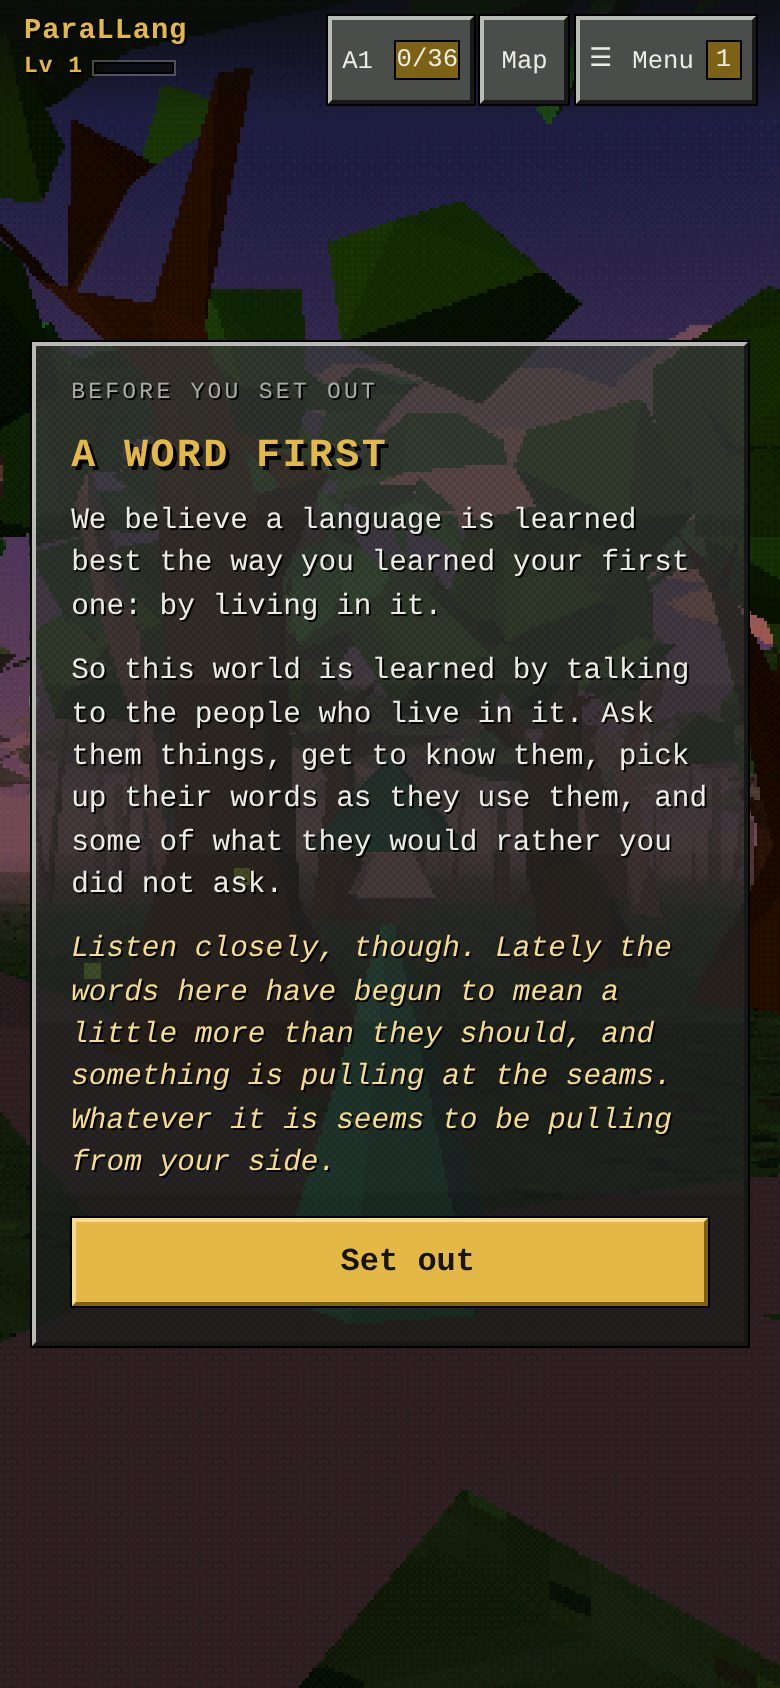
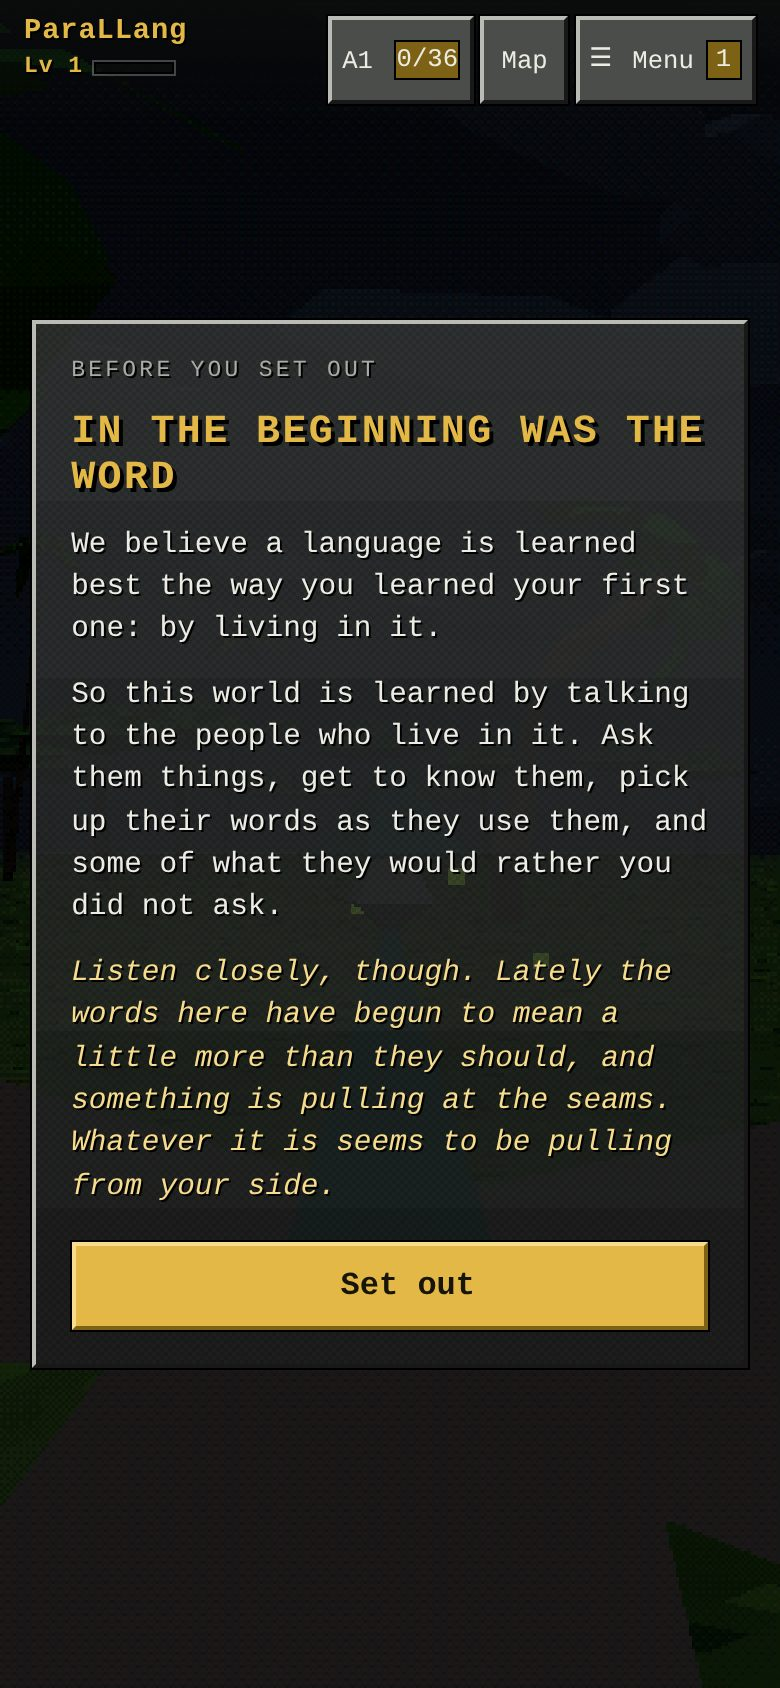
round 180: the opening message's heading is "In the beginning was the Word"
Claude-Session: https://claude.ai/code/session_011e19kMGFw1rCHyDXwkJLSU

diff --git a/client/src/components/__tests__/road-screen.test.jsx b/client/src/components/__tests__/road-screen.test.jsx
@@ -26,7 +26,7 @@ const noMusic = { supported: false, start() {}, stop() {}, setLevel() {} };
 
 // Round 180: the opening message, once the camera is down at the start of the journey; closed by Set out.
 async function welcome(user) {
-  const dialog = await screen.findByRole('dialog', { name: 'A word first' }, { timeout: 20_000 });
+  const dialog = await screen.findByRole('dialog', { name: 'In the beginning was the Word' }, { timeout: 20_000 });
   await user.click(within(dialog).getByRole('button', { name: 'Set out' }));
 }
 
@@ -70,7 +70,7 @@ test('the journey opens on a message about learning by conversation; closed, it 
   const user = userEvent.setup();
   render(<DungeonScreen useStore={useStore} speech={silent} ambience={noMusic} />);
   await user.click(await screen.findByRole('button', { name: 'The Journey 2: Journathan Returns (again)' }, { timeout: 20_000 }));
-  const dialog = await screen.findByRole('dialog', { name: 'A word first' }, { timeout: 20_000 });
+  const dialog = await screen.findByRole('dialog', { name: 'In the beginning was the Word' }, { timeout: 20_000 });
   expect(dialog.textContent).toContain('by living in it');
   expect(dialog.textContent).toContain('talking to the people who live in it');
   expect(screen.queryByRole('button', { name: /^Talk to / })).toBeNull(); // the arrival's card waits behind it
@@ -80,7 +80,7 @@ test('the journey opens on a message about learning by conversation; closed, it 
   cleanup();
   // The same slot again: straight to the arrival's card.
   await mount({ storage });
-  expect(screen.queryByRole('dialog', { name: 'A word first' })).toBeNull();
+  expect(screen.queryByRole('dialog', { name: 'In the beginning was the Word' })).toBeNull();
 });
 
 test('a conversation on the road, then Continue takes the rails to the next one', async () => {

diff --git a/client/src/components/Road.jsx b/client/src/components/Road.jsx
@@ -124,7 +124,7 @@ export function WelcomeCard({ onClose }) {
     <div className="welcome-backdrop">
       <section className="card welcome-card" role="dialog" aria-modal="true" aria-labelledby="welcome-title">
         <p className="eyebrow">Before you set out</p>
-        <h2 id="welcome-title">A word first</h2>
+        <h2 id="welcome-title">In the beginning was the Word</h2>
         <p>We believe a language is learned best the way you learned your first one: by living in it.</p>
         <p>So this world is learned by talking to the people who live in it. Ask them things, get to know them, pick up their words as they use them, and some of what they would rather you did not ask.</p>
         <p className="welcome-teaser">Listen closely, though. Lately the words here have begun to mean a little more than they should, and something is pulling at the seams. Whatever it is seems to be pulling from your side.</p>

diff --git a/docs/rounds/180/architecture.md b/docs/rounds/180/architecture.md
@@ -22,7 +22,8 @@ commit; nothing here is frozen.
 3. **What it says.** Three short paragraphs: the belief (a language is learned best by living in it), the game (learn
    this world and its language by talking to the people who live in it), and a teaser (the words here have begun to
    mean more than they should; something pulls at the seams, from the player's side). The teaser hints at the
-   strings and the collision without naming them.
+   strings and the collision without naming them. The heading, on the owner's word after the first deploy, is "In
+   the beginning was the Word" (John 1:1, "Am Anfang war das Wort"); it was "A word first".
 4. **How often.** Once per save slot: closing it stores `parallang.welcomed`, a per-slot key, so a new game or a
    started-over slot greets the player again. A player with a save from before this round sees it once.
 5. **The browser checks.** `scripts/lib/play.mjs` marks the message read unless a check asks for it

diff --git a/docs/rounds/180/trail/journal.md b/docs/rounds/180/trail/journal.md
@@ -8,3 +8,4 @@ Append only. Times are UTC. Occurred is when the event happened; Recorded is whe
 | 2 | approx. | 11:41:00 | decision | Claude | A centred pop-up over the landscape once the camera is down; the arrival's card waits until Set out; shown once per save slot | `../architecture.md` |
 | 3 | approx. | 11:41:00 | run | Claude | Client 311 pass (1 new); build; welcome-check in headless Chromium, 0 problems | `../findings.md` |
 | 4 | 11:41:00 | 11:41:00 | closed | Claude | Records, status addendum; merged to `main` and pushed on the owner's word | `../architecture.md` |
+| 5 | 11:56:25 | 11:56:25 | decision | Owner | The heading becomes "In the beginning was the Word" (John 1:1; the owner's "Am Anfang war das Wort"); deploy | `../architecture.md` |
